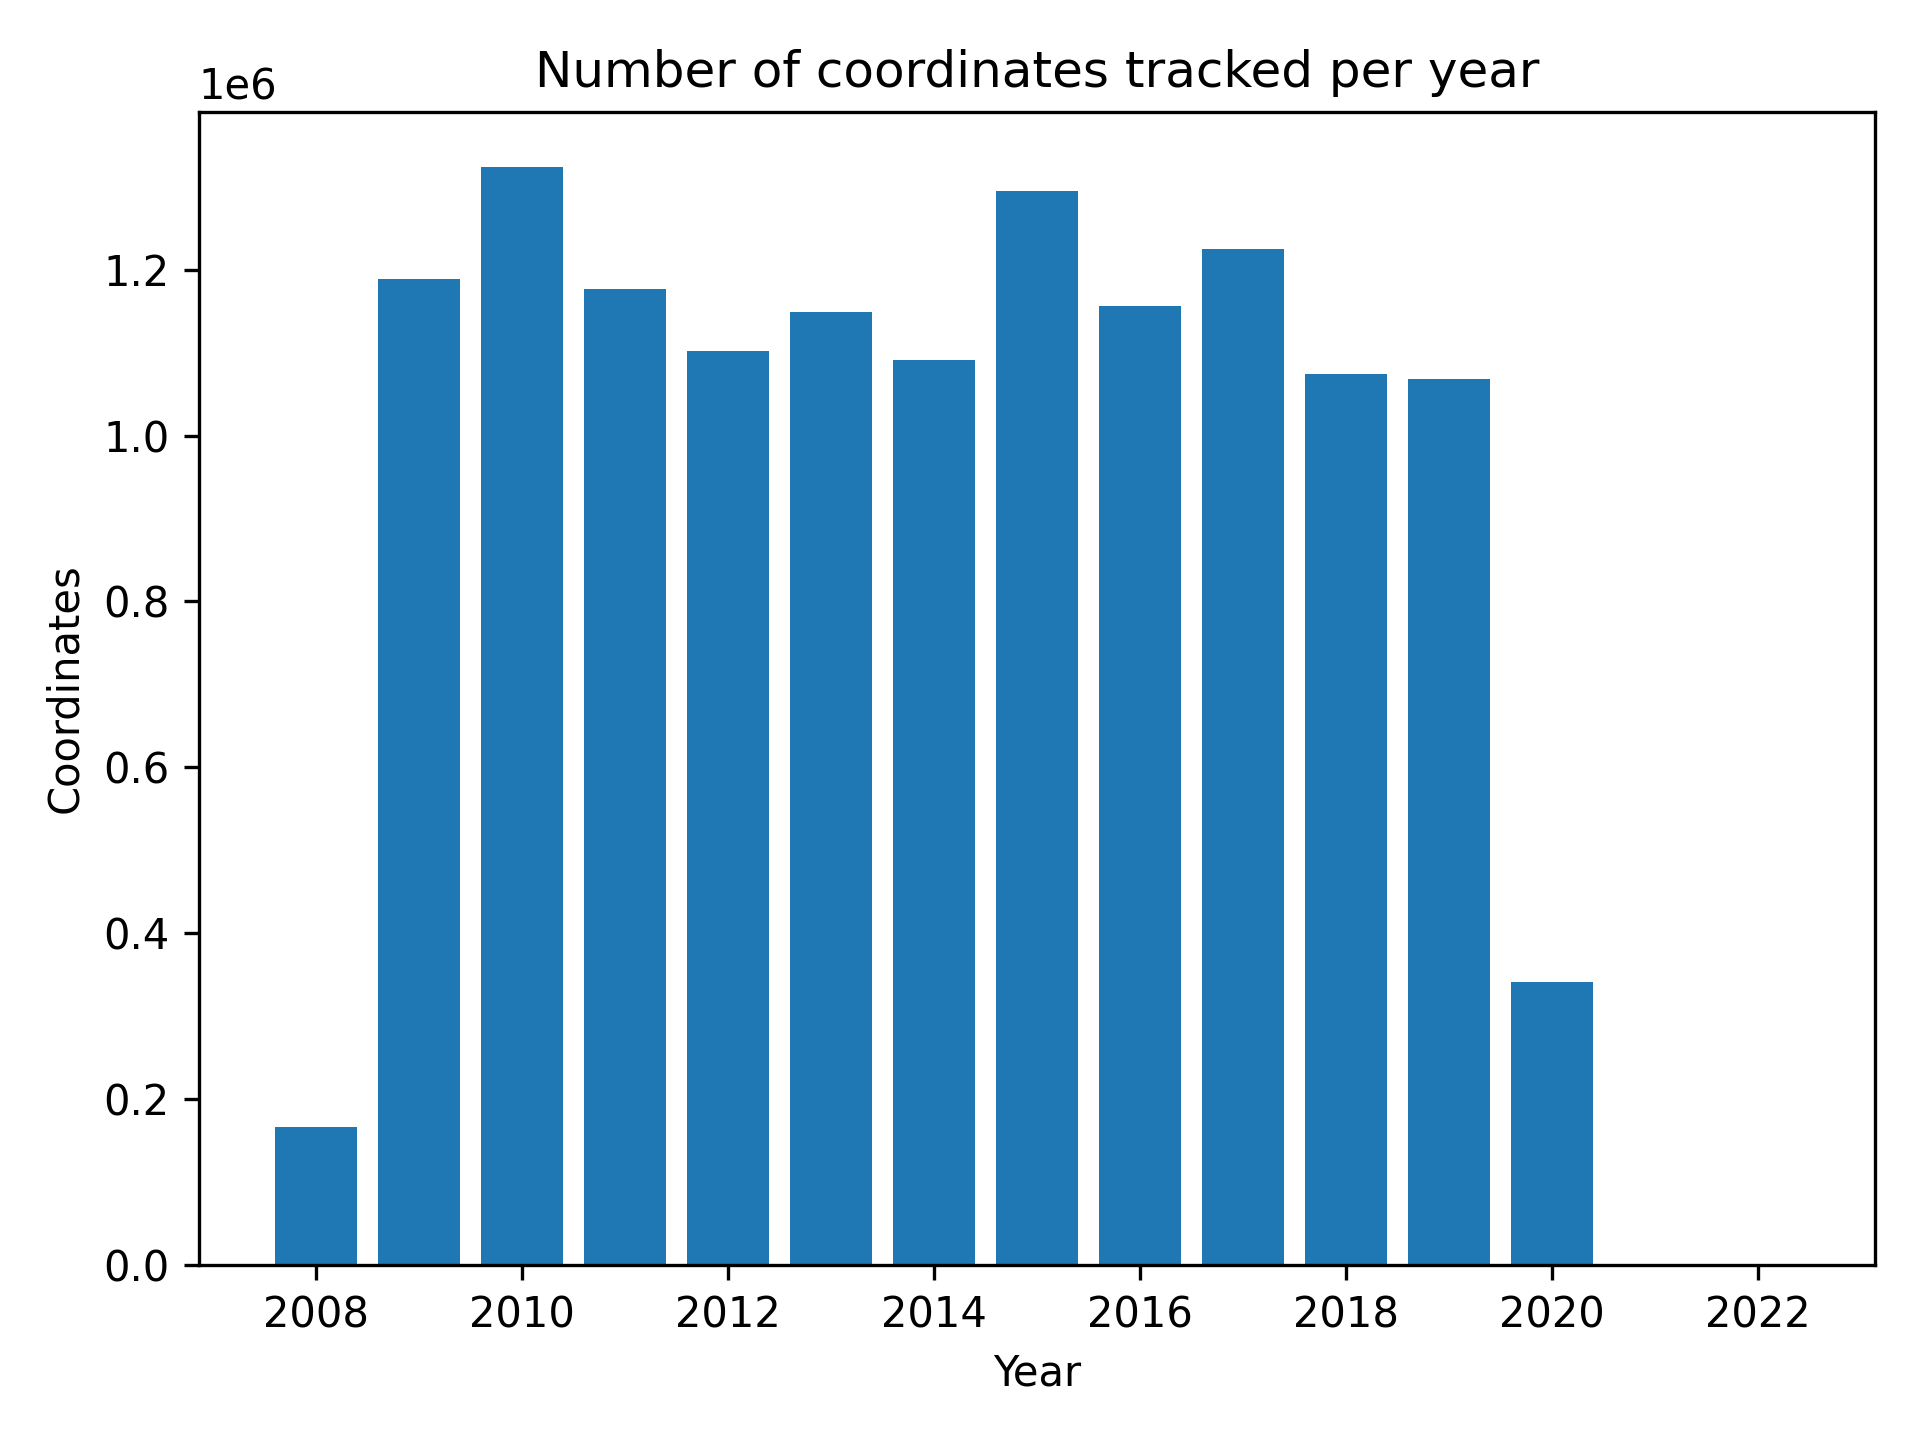
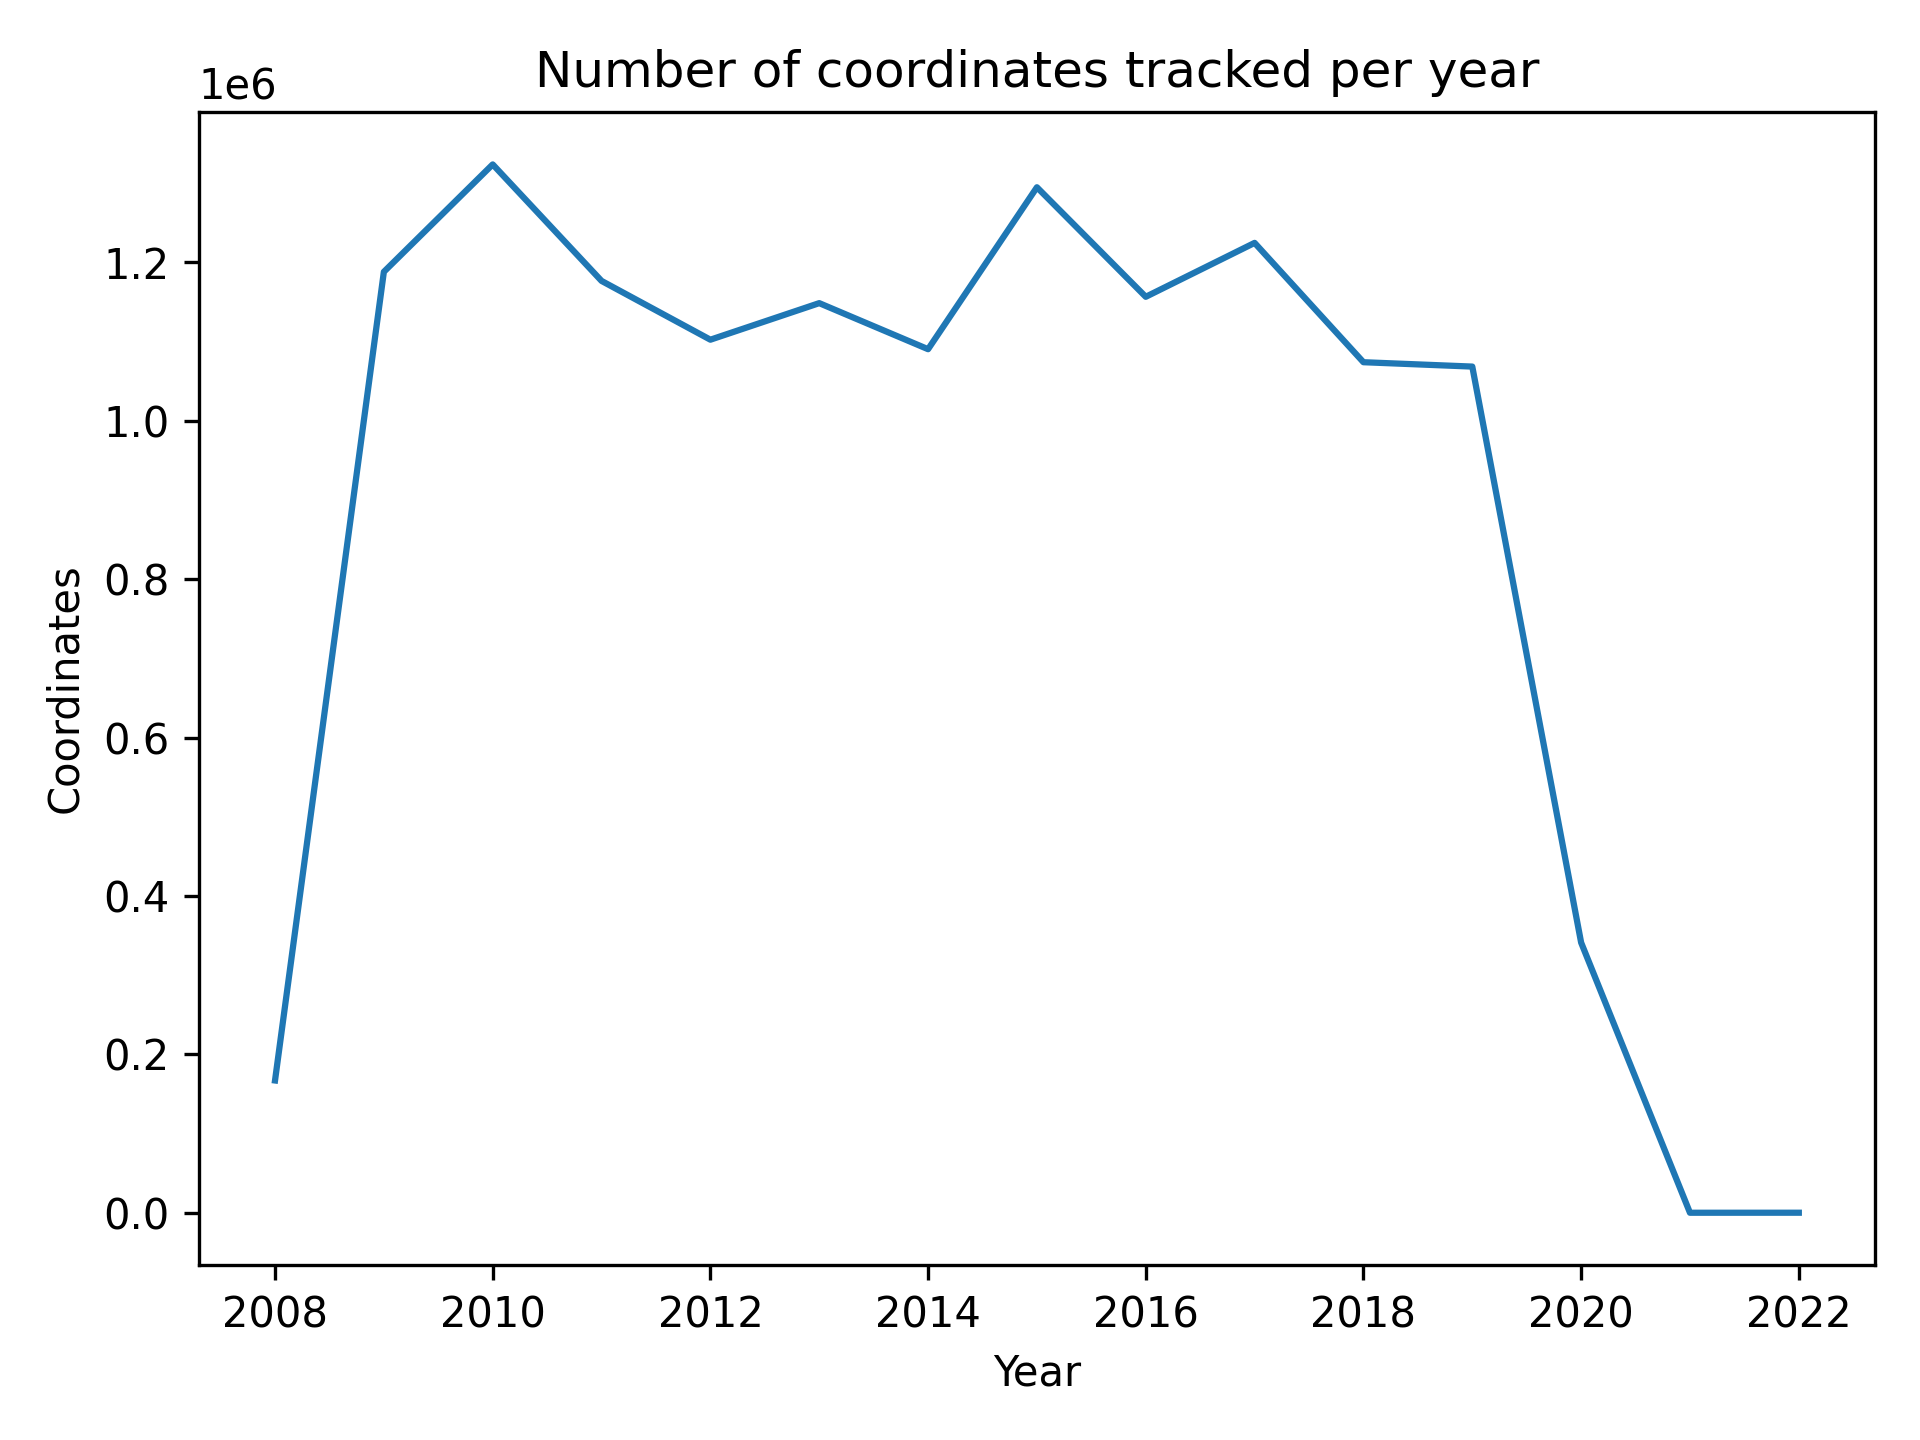
Minor change to geom counts plot

diff --git a/get_data.py b/get_data.py
@@ -79,7 +79,7 @@ def geom_counts(connection):
         # Update array of counts
         geom_counts[i] = result['count']
 
-    plt.bar(years, geom_counts)
+    plt.plot(years, geom_counts)
     plt.xlabel('Year')
     plt.ylabel('Coordinates')
     plt.title('Number of coordinates tracked per year')
